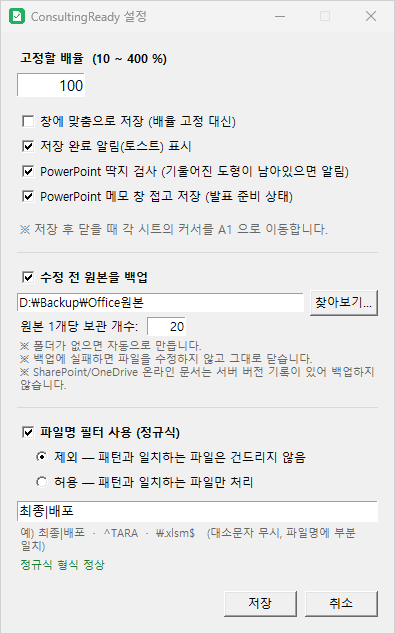
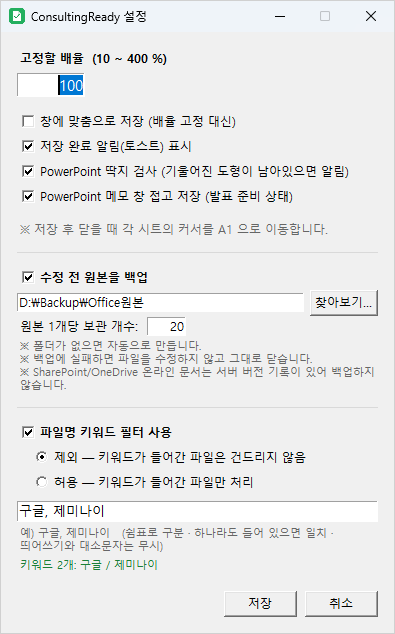
feat(filter): replace regex rules with filename keywords

diff --git a/consulting_ready.py b/consulting_ready.py
@@ -48,6 +48,7 @@ import hashlib
 import tempfile
 import threading
 import traceback
+import unicodedata
 import datetime
 
 # ---------------------------------------------------------------------------
@@ -135,11 +136,11 @@ _target_zoom = DEFAULT_ZOOM
 _fit_mode = False
 _paused = False
 _toast_enabled = True
-# 파일명 정규식 필터
+# 파일명 키워드 필터
 _filter_enabled = False
-_filter_mode = "exclude"     # "exclude"=일치하면 제외 / "include"=일치하는 것만 처리
-_filter_pattern = ""
-_filter_re = None
+_filter_mode = "exclude"     # "exclude"=키워드가 들어간 파일 제외 / "include"=들어간 파일만 처리
+_filter_keywords = ""        # 사용자가 입력한 그대로 (예: "구글, 제미나이")
+_filter_list = []            # 비교용으로 정규화한 키워드 목록
 # 기울어진 도형(딱지) 검사
 _stamp_check = True
 # PowerPoint 메모 창 접고 저장 (발표 준비 상태)
@@ -175,7 +176,11 @@ def load_config():
         fmode = d.get("filter_mode", "exclude")
         if fmode not in ("exclude", "include"):
             fmode = "exclude"
-        fpat = str(d.get("filter_pattern", "") or "")
+        fkw = d.get("filter_keywords")
+        if fkw is None:
+            # 1.2 이하에서 저장한 정규식 필터 값을 키워드로 옮긴다.
+            fkw = keywords_from_regex(d.get("filter_pattern", ""))
+        fpat = str(fkw or "")
         stamp = bool(d.get("stamp_check", True))
         notes = bool(d.get("hide_notes", True))
         ben = bool(d.get("backup_enabled", False))
@@ -197,7 +202,7 @@ def save_config():
                        "toast": bool(_toast_enabled),
                        "filter_enabled": bool(_filter_enabled),
                        "filter_mode": _filter_mode,
-                       "filter_pattern": _filter_pattern,
+                       "filter_keywords": _filter_keywords,
                        "stamp_check": bool(_stamp_check),
                        "hide_notes": bool(_hide_notes),
                        "backup_enabled": bool(_backup_enabled),
@@ -208,29 +213,83 @@ def save_config():
         pass
 
 
-def compile_filter():
-    """필터 정규식을 컴파일한다. 오류가 있으면 오류 메시지를 반환."""
-    global _filter_re
-    pat = (_filter_pattern or "").strip()
-    if not pat:
-        _filter_re = None
-        return None
-    try:
-        _filter_re = re.compile(pat, re.IGNORECASE)   # 파일명이라 대소문자 무시
-        return None
-    except re.error as e:
-        _filter_re = None
-        return str(e)
+_KW_SPLIT = re.compile(r"[,，、;\n]+")   # 쉼표(전각 포함), 세미콜론, 줄바꿈
+
+
+def _norm_name(s):
+    """비교용 정규화: 한글 자모 결합(NFC) · 대소문자 무시 · 공백 전부 제거.
+    그래서 '통합 문서1.xlsx' 와 키워드 '통합문서' 처럼 띄어쓰기만 달라도 일치한다."""
+    s = unicodedata.normalize("NFC", str(s or ""))
+    return "".join(s.casefold().split())
+
+
+def parse_keywords(text):
+    """'구글, 제미나이' → ['구글', '제미나이'] (정규화 · 빈 값과 중복 제외)."""
+    out = []
+    for part in _KW_SPLIT.split(str(text or "")):
+        k = _norm_name(part)
+        if k and k not in out:
+            out.append(k)
+    return out
+
+
+def keywords_from_regex(pattern):
+    """1.2 이하의 정규식 필터 값을 키워드 문자열로 옮긴다.
+    '최종|배포' → '최종, 배포' / '^통합문서1\\.xlsx$' → '통합문서1.xlsx'
+    와일드카드 · 묶음 · 문자 클래스처럼 글자로 옮길 수 없는 조각은 버린다."""
+    words = []
+    for part in str(pattern or "").split("|"):
+        part = part.strip()
+        if part.startswith("^"):
+            part = part[1:]
+        if part.endswith("$") and not part.endswith("\\$"):
+            part = part[:-1]
+        word, ok, i = [], True, 0
+        while i < len(part):
+            ch = part[i]
+            if ch == "\\":
+                nxt = part[i + 1:i + 2]
+                if not nxt or nxt.isalnum():     # \\d, \\w 같은 기호는 글자로 옮길 수 없다
+                    ok = False
+                    break
+                word.append(nxt)
+                i += 2
+                continue
+            if ch in ".*+?()[]{}^$":
+                ok = False
+                break
+            word.append(ch)
+            i += 1
+        w = "".join(word).strip()
+        if ok and w:
+            words.append(w)
+    return ", ".join(words)
+
+
+def refresh_filter():
+    """입력된 키워드 문자열을 비교용 목록으로 갱신한다."""
+    global _filter_list
+    _filter_list = parse_keywords(_filter_keywords)
+
+
+def _filter_desc():
+    """로그용 필터 설명."""
+    if not _filter_enabled:
+        return "꺼짐"
+    return "%s [%s]" % ("제외" if _filter_mode == "exclude" else "허용",
+                        _filter_keywords.strip() or "키워드 없음")
 
 
 def filter_skip_reason(name):
-    """파일명 필터 때문에 건너뛰어야 하면 사유, 아니면 None."""
-    if not _filter_enabled or _filter_re is None:
+    """파일명 키워드 필터 때문에 건너뛰어야 하면 사유, 아니면 None.
+    키워드 중 하나라도 파일명에 들어 있으면 '일치'로 본다."""
+    if not _filter_enabled or not _filter_list:
         return None
-    hit = bool(_filter_re.search(name or ""))
+    n = _norm_name(name)
+    hit = next((k for k in _filter_list if k in n), None)
     if _filter_mode == "include":
-        return None if hit else "허용 패턴 불일치"
-    return "제외 패턴 일치" if hit else None
+        return None if hit else "허용 키워드 없음"
+    return ("제외 키워드 '%s' 포함" % hit) if hit else None
 
 
 def _safe_name(doc):
@@ -1385,11 +1444,11 @@ def _refresh_icon():
 
 
 def apply_settings(zoom=None, fit=None, toast=None,
-                   filter_enabled=None, filter_mode=None, filter_pattern=None,
+                   filter_enabled=None, filter_mode=None, filter_keywords=None,
                    stamp_check=None, hide_notes=None,
                    backup_enabled=None, backup_dir=None, backup_keep=None):
     global _target_zoom, _fit_mode, _toast_enabled
-    global _filter_enabled, _filter_mode, _filter_pattern, _stamp_check
+    global _filter_enabled, _filter_mode, _filter_keywords, _stamp_check
     global _hide_notes, _backup_enabled, _backup_dir, _backup_keep
     if stamp_check is not None:
         _stamp_check = bool(stamp_check)
@@ -1414,24 +1473,21 @@ def apply_settings(zoom=None, fit=None, toast=None,
         _filter_enabled = bool(filter_enabled)
     if filter_mode in ("exclude", "include"):
         _filter_mode = filter_mode
-    if filter_pattern is not None:
-        _filter_pattern = str(filter_pattern)
-    err = compile_filter()
+    if filter_keywords is not None:
+        _filter_keywords = str(filter_keywords)
+    refresh_filter()
     save_config()
     log("설정 변경: 배율 %d%% / 창에맞춤 %s / 완료알림 %s / 필터 %s / 딱지검사 %s"
         " / 메모창접기 %s"
         % (_target_zoom,
            "켜짐" if _fit_mode else "꺼짐",
            "켜짐" if _toast_enabled else "꺼짐",
-           ("%s '%s'" % ("제외" if _filter_mode == "exclude" else "허용",
-                         _filter_pattern) if _filter_enabled else "꺼짐"),
+           _filter_desc(),
            "켜짐" if _stamp_check else "꺼짐",
            "켜짐" if _hide_notes else "꺼짐"))
     log("   백업: %s" % (("켜짐 → %s (원본당 %d개 보관)"
                           % (backup_root(), _backup_keep))
                          if _backup_enabled else "꺼짐"))
-    if err:
-        log("필터 정규식 오류(무시됨): %s" % err)
     _refresh_icon()
 
 
@@ -1563,22 +1619,22 @@ def _settings_thread():
             for w in (b_entry, b_btn, b_keep_entry):
                 w.configure(state=st)
 
-        # ---------------- 파일명 정규식 필터 ----------------
+        # ---------------- 파일명 키워드 필터 ----------------
         tk.Frame(root, height=1, bg="#d9d9d9").pack(fill="x", pady=12, **PAD)
 
         f_en = tk.BooleanVar(value=bool(_filter_enabled))
         f_mode = tk.StringVar(value=_filter_mode)
-        f_pat = tk.StringVar(value=_filter_pattern)
+        f_pat = tk.StringVar(value=_filter_keywords)
 
         tk.Checkbutton(root, variable=f_en, anchor="w",
-                       text="파일명 필터 사용 (정규식)",
+                       text="파일명 키워드 필터 사용",
                        font=("Malgun Gothic", 9, "bold"),
                        command=lambda: sync_filter()).pack(fill="x", **PAD)
 
         rb1 = tk.Radiobutton(root, variable=f_mode, value="exclude", anchor="w",
-                             text="제외 — 패턴과 일치하는 파일은 건드리지 않음")
+                             text="제외 — 키워드가 들어간 파일은 건드리지 않음")
         rb2 = tk.Radiobutton(root, variable=f_mode, value="include", anchor="w",
-                             text="허용 — 패턴과 일치하는 파일만 처리")
+                             text="허용 — 키워드가 들어간 파일만 처리")
         rb1.pack(fill="x", padx=30)
         rb2.pack(fill="x", padx=30)
 
@@ -1586,29 +1642,24 @@ def _settings_thread():
         pat_entry.pack(fill="x", pady=(6, 2), **PAD)
         hint = tk.Label(root, anchor="w", justify="left", wraplength=360,
                         fg="#666666", font=("Malgun Gothic", 8),
-                        text="예) 최종|배포  ·  ^TARA  ·  \\.xlsm$   "
-                             "(대소문자 무시, 파일명에 부분 일치)")
+                        text="예) 구글, 제미나이   (쉼표로 구분 · 하나라도 들어 있으면 일치 · "
+                             "띄어쓰기와 대소문자는 무시)")
         hint.pack(fill="x", **PAD)
         status = tk.Label(root, anchor="w", justify="left", wraplength=360,
                           fg="#666666", font=("Malgun Gothic", 8), text="")
         status.pack(fill="x", **PAD)
 
         def check_pattern(*_a):
-            pat = f_pat.get().strip()
             if not f_en.get():
                 status.configure(text="", fg="#666666")
-                return True
-            if not pat:
-                status.configure(text="패턴이 비어 있어 필터가 적용되지 않습니다.",
+                return
+            words = [w.strip() for w in _KW_SPLIT.split(f_pat.get()) if w.strip()]
+            if not words:
+                status.configure(text="키워드가 비어 있어 필터가 적용되지 않습니다.",
                                  fg="#b06000")
-                return True
-            try:
-                re.compile(pat)
-            except re.error as e:
-                status.configure(text="정규식 오류: %s" % e, fg="#c01c28")
-                return False
-            status.configure(text="정규식 형식 정상", fg="#1a7f37")
-            return True
+                return
+            status.configure(text="키워드 %d개: %s" % (len(words), " / ".join(words)),
+                             fg="#1a7f37")
 
         def sync_filter(*_a):
             on = f_en.get()
@@ -1620,11 +1671,6 @@ def _settings_thread():
         f_pat.trace_add("write", check_pattern)
 
         def on_save():
-            if f_en.get() and not check_pattern():
-                messagebox.showwarning("입력 확인",
-                                       "정규식이 올바르지 않습니다.\n다시 확인해 주세요.",
-                                       parent=root)
-                return
             # 백업 설정 검증
             bd = b_dir.get().strip()
             try:
@@ -1654,7 +1700,7 @@ def _settings_thread():
                     return
             fkw = dict(filter_enabled=f_en.get(),
                        filter_mode=f_mode.get(),
-                       filter_pattern=f_pat.get().strip(),
+                       filter_keywords=f_pat.get().strip(),
                        stamp_check=stamp_var.get(),
                        hide_notes=notes_var.get(),
                        backup_enabled=b_en.get(),
@@ -1778,7 +1824,7 @@ def _about_thread():
 
 def main():
     global _icon, _target_zoom, _fit_mode, _toast_enabled, _mutex
-    global _filter_enabled, _filter_mode, _filter_pattern, _stamp_check
+    global _filter_enabled, _filter_mode, _filter_keywords, _stamp_check
     global _hide_notes, _backup_enabled, _backup_dir, _backup_keep
 
     # 단일 실행 보장: mutex 핸들을 전역에 보관해 프로세스 수명 동안 유지한다.
@@ -1788,23 +1834,20 @@ def main():
         return
 
     (_target_zoom, _fit_mode, _toast_enabled,
-     _filter_enabled, _filter_mode, _filter_pattern,
+     _filter_enabled, _filter_mode, _filter_keywords,
      _stamp_check, _hide_notes,
      _backup_enabled, _backup_dir, _backup_keep) = load_config()
-    ferr = compile_filter()
+    refresh_filter()
     log("=== ConsultingReady 시작 (%s, 완료알림 %s, 필터 %s, 딱지검사 %s,"
         " 메모창접기 %s) ==="
         % ("창에 맞춤" if _fit_mode else "배율 %d%%" % _target_zoom,
            "켜짐" if _toast_enabled else "꺼짐",
-           ("%s '%s'" % ("제외" if _filter_mode == "exclude" else "허용",
-                         _filter_pattern) if _filter_enabled else "꺼짐"),
+           _filter_desc(),
            "켜짐" if _stamp_check else "꺼짐",
            "켜짐" if _hide_notes else "꺼짐"))
     log("   백업: %s" % (("켜짐 → %s (원본당 %d개 보관)"
                           % (backup_root(), _backup_keep))
                          if _backup_enabled else "꺼짐"))
-    if ferr:
-        log("필터 정규식 오류(무시됨): %s" % ferr)
 
     stop_event = threading.Event()
     t = threading.Thread(target=worker, args=(stop_event,), daemon=True)

diff --git a/README.md b/README.md
@@ -47,7 +47,7 @@
 | **메모 창 접기** | 발표자 노트 창을 접어 발표 준비 상태로 | — | ✅ |
 | **딱지 검사** | 기울어진 도형(대외비·초안 등)이 남아있으면 경고 | — | ✅ |
 | **원본 백업** | 수정 전 원본을 별도 폴더에 복사 | ✅ | ✅ |
-| **파일명 필터** | 정규식으로 특정 파일을 제외/한정 | ✅ | ✅ |
+| **파일명 키워드 필터** | 키워드가 들어간 파일을 제외하거나 그 파일만 처리 | ✅ | ✅ |
 | **일시정지** | 잠시 모든 동작 중지 | ✅ | ✅ |
 
 🔸 PowerPoint 배율은 best-effort입니다 ([알려진 제약](#알려진-제약) 참고)
@@ -130,19 +130,21 @@ exe만 받으셨다면 `Win + R` → `shell:startup` 으로 열리는 폴더에 
 - **백업 폴더** — `찾아보기...` 로 고르거나 경로를 직접 입력합니다. **폴더가 없으면 자동으로 만듭니다.** 기본값은 `%LOCALAPPDATA%\ConsultingReady\backup`
 - **원본 1개당 보관 개수** — 기본 20개. 넘으면 오래된 것부터 지웁니다.
 
-### 파일명 필터 (정규식)
-- **제외** — 패턴과 일치하는 파일은 건드리지 않음
-- **허용** — 패턴과 일치하는 파일만 처리
+### 파일명 키워드 필터
+- **제외** — 키워드가 들어간 파일은 건드리지 않음
+- **허용** — 키워드가 들어간 파일만 처리
 
-예시 패턴:
+키워드는 **쉼표로 구분**해 입력합니다. 파일명에 키워드가 **하나라도 들어 있으면** 일치로 봅니다.
 
-| 패턴 | 의미 |
-|---|---|
-| `최종\|배포` | 이름에 "최종" 또는 "배포"가 들어간 파일 |
-| `^TARA` | 이름이 TARA로 시작하는 파일 |
-| `\.xlsm$` | 매크로 문서(.xlsm) |
+| 입력 | 제외 모드 | 허용 모드 |
+|---|---|---|
+| `구글, 제미나이` | 이름에 "구글" 또는 "제미나이"가 들어간 파일은 건드리지 않음 | 그런 파일만 처리 |
+| `최종, 배포` | "최종"이나 "배포"가 들어간 파일은 건드리지 않음 | 그런 파일만 처리 |
+| `.xlsm` | 매크로 문서는 건드리지 않음 | 매크로 문서만 처리 |
 
-대소문자를 구분하지 않고, 파일명에 **부분 일치**합니다. 입력하는 즉시 정규식이 올바른지 검사하며, 잘못된 정규식은 저장이 막힙니다.
+**띄어쓰기와 대소문자는 무시합니다.** 예를 들어 `통합문서`는 `통합 문서1.xlsx` 와도 일치하고, `google`은 `GOOGLE_보고서.pptx` 와 일치합니다. 입력하는 동안 설정창 아래에 인식된 키워드가 표시됩니다.
+
+> 1.2 이하에서 정규식으로 저장한 설정은 읽을 때 키워드로 자동 변환됩니다 (`최종|배포` → `최종, 배포`). `.*` 같은 정규식 기호가 들어간 조각은 글자로 옮길 수 없어 빠지므로, 업데이트 후 설정창에서 한 번 확인해 주세요.
 
 설정은 `%LOCALAPPDATA%\ConsultingReady\config.json` 에 저장됩니다.
 
@@ -239,7 +241,7 @@ Excel은 **문서를 닫는 도중에** 배율을 바꿔 저장하면 창이 사
 
 ### 특정 파일만 제외하고 싶을 때
 
-**파일명 필터**를 **제외** 모드로 켜고 패턴을 넣으세요. 예: `템플릿|샘플`
+**파일명 키워드 필터**를 **제외** 모드로 켜고 키워드를 넣으세요. 예: `템플릿, 샘플`
 
 ### 잠시 멈추고 싶을 때
 
